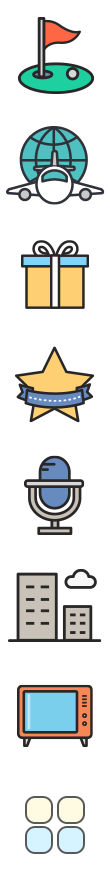
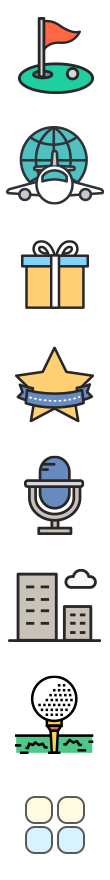
아이콘수정

Changed region(s): [[0.1364, 0.767, 0.8455, 0.8591]]

diff --git a/mobile/main.html b/mobile/main.html
@@ -155,11 +155,13 @@
                                     <div class="mc_quick">기업단체</div>
                                 </a>
                             </li>
+                            <!-- 221103 -->
                             <li>
                                 <a href="#" class="mc_quickmenu ico_mc07">
-                                    <div class="mc_quick">홈쇼핑</div>
+                                    <div class="mc_quick">골프부킹</div>
                                 </a>
                             </li>
+                            <!-- // 221103 -->
                             <li>
                                 <a href="#" class="mc_quickmenu ico_mc08">
                                     <div class="mc_quick">전체메뉴</div>

diff --git a/mobile/main_nodata.html b/mobile/main_nodata.html
@@ -149,11 +149,13 @@
                                     <div class="mc_quick">기업단체</div>
                                 </a>
                             </li>
+                            <!-- 221103 -->
                             <li>
                                 <a href="#" class="mc_quickmenu ico_mc07">
-                                    <div class="mc_quick">홈쇼핑</div>
+                                    <div class="mc_quick">골프부킹</div>
                                 </a>
                             </li>
+                            <!-- // 221103 -->
                             <li>
                                 <a href="#" class="mc_quickmenu ico_mc08">
                                     <div class="mc_quick">전체메뉴</div>

diff --git a/mobile/main_v2.html b/mobile/main_v2.html
@@ -352,11 +352,13 @@
                                     <div class="mc_quick">기업단체</div>
                                 </a>
                             </li>
+                            <!-- 221103 -->
                             <li>
                                 <a href="#" class="mc_quickmenu ico_mc07">
-                                    <div class="mc_quick">홈쇼핑</div>
+                                    <div class="mc_quick">골프부킹</div>
                                 </a>
                             </li>
+                            <!-- // 221103 -->
                             <li>
                                 <a href="#" class="mc_quickmenu ico_mc08">
                                     <div class="mc_quick">전체메뉴</div>

diff --git a/mobile/main_v2_nodata.html b/mobile/main_v2_nodata.html
@@ -346,11 +346,13 @@
                                     <div class="mc_quick">기업단체</div>
                                 </a>
                             </li>
+                            <!-- 221103 -->
                             <li>
                                 <a href="#" class="mc_quickmenu ico_mc07">
-                                    <div class="mc_quick">홈쇼핑</div>
+                                    <div class="mc_quick">골프부킹</div>
                                 </a>
                             </li>
+                            <!-- // 221103 -->
                             <li>
                                 <a href="#" class="mc_quickmenu ico_mc08">
                                     <div class="mc_quick">전체메뉴</div>
